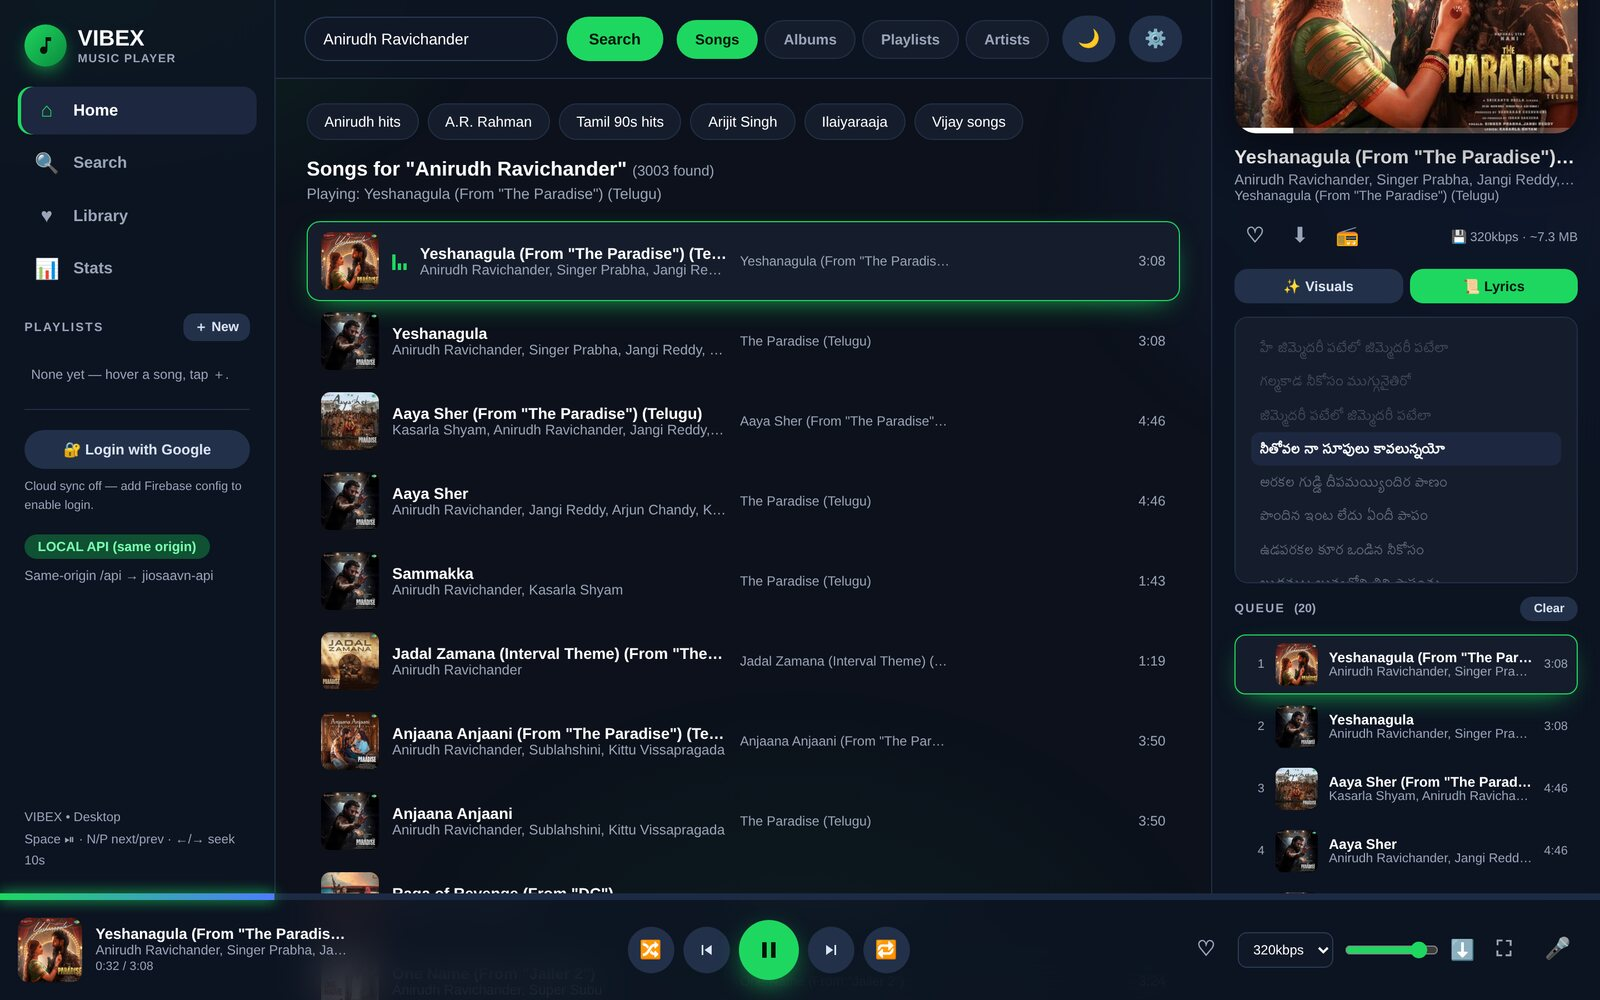
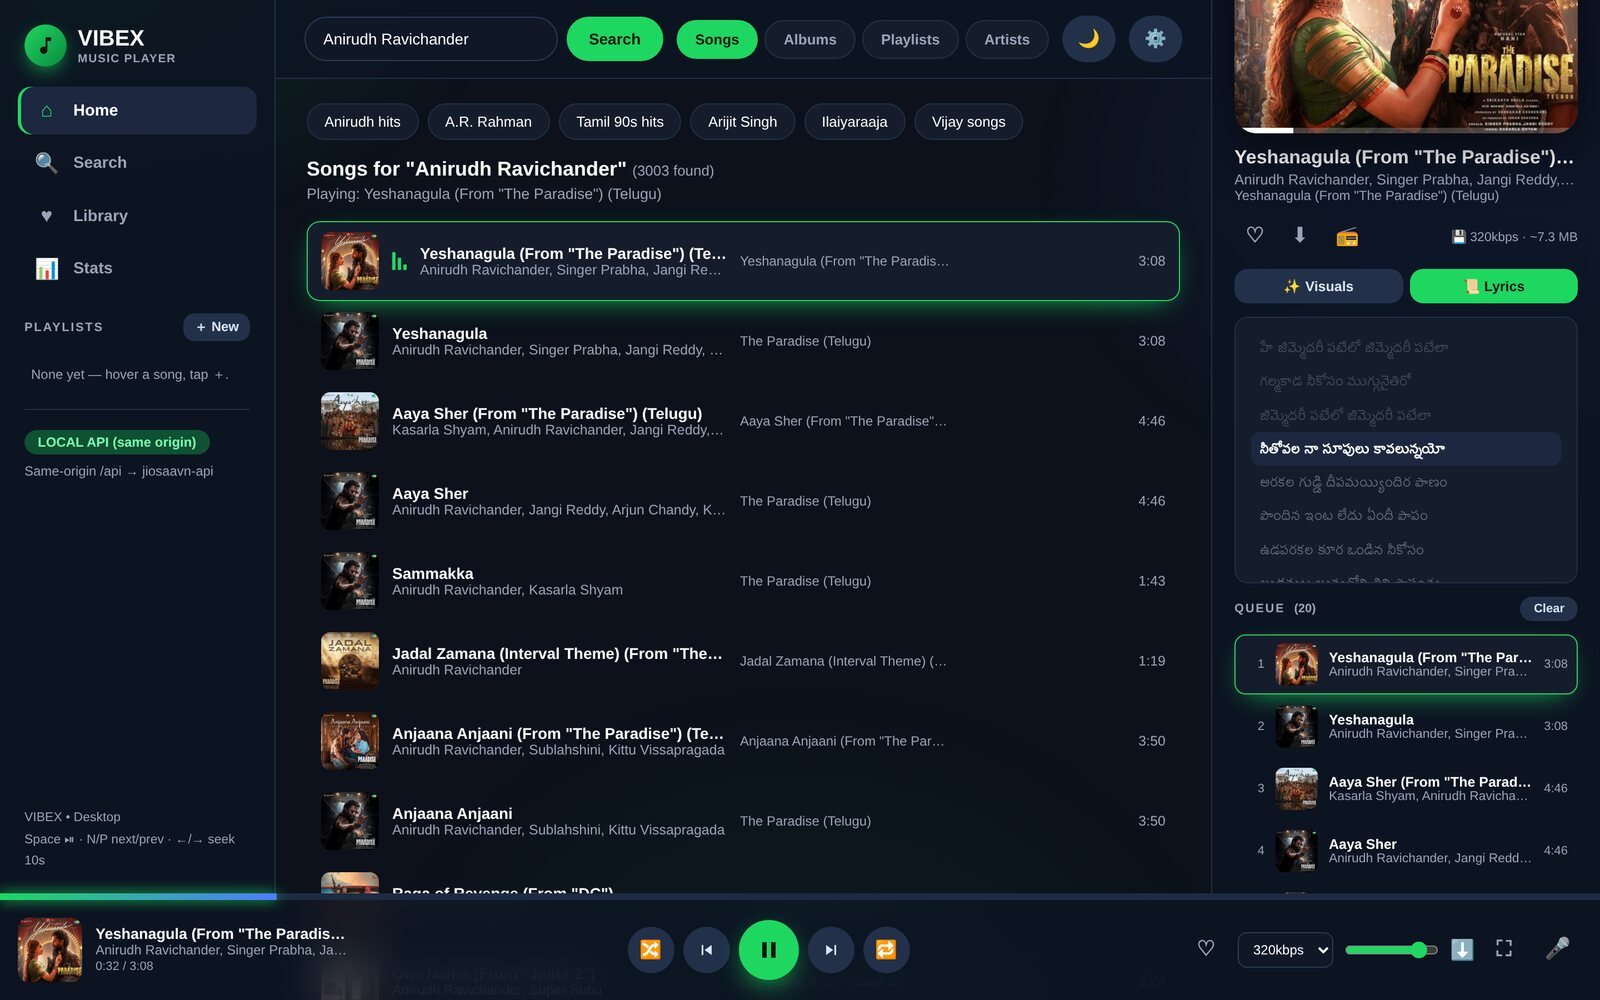
feat: remove Google login and Firebase cloud history
Strips the optional sign-in feature entirely rather than leaving it
half-wired:

- drop the three firebase-*-compat script tags, so index.html now loads
  no third-party JavaScript and makes no request to www.gstatic.com
- remove the sidebar auth UI (login button, profile box, auth note) and
  its CSS
- remove FIREBASE_CONFIG, initFirebase, paintAuth, logPlayToCloud,
  fmtAgo and renderCloudHistory, plus their two call sites in
  statsOnPlay and renderStats
- delete README-FIREBASE.md and every reference to login, Firebase and
  cloud sync across README.md and NOTICE.md

Listening stats and the liked-songs library are unaffected; both were
always local-first via localStorage. Screenshots re-captured so the
docs match the shipped sidebar.

Changed region(s): [[0.0, 0.403, 0.1562, 0.589]]

diff --git a/music-app/index.html b/music-app/index.html
@@ -4,9 +4,6 @@
 <meta charset="UTF-8" />
 <meta name="viewport" content="width=device-width, initial-scale=1.0" />
 <title>VIBEX — Music Player</title>
-<script src="https://www.gstatic.com/firebasejs/10.12.0/firebase-app-compat.js"></script>
-<script src="https://www.gstatic.com/firebasejs/10.12.0/firebase-auth-compat.js"></script>
-<script src="https://www.gstatic.com/firebasejs/10.12.0/firebase-firestore-compat.js"></script>
 <style>
   * { box-sizing: border-box; margin: 0; padding: 0; }
   :root {
@@ -496,15 +493,6 @@
   #lyrOvContent .lyr-plain { font-size: 15px; }
 
   /* ---------- google login ---------- */
-  #authBox { padding: 0 6px; display: flex; flex-direction: column; gap: 8px; }
-  #loginBtn { width: 100%; font-size: 13px; padding: 10px; }
-  #profileBox { display: flex; align-items: center; gap: 10px; background: var(--card); border: 1px solid var(--line); border-radius: 12px; padding: 8px 10px; }
-  #profPic { width: 36px; height: 36px; border-radius: 50%; object-fit: cover; background: var(--imgbg); flex-shrink: 0; }
-  #profMeta { flex: 1; min-width: 0; display: flex; flex-direction: column; }
-  #profName { font-size: 13px; white-space: nowrap; overflow: hidden; text-overflow: ellipsis; }
-  #profMail { font-size: 11px; color: var(--muted); white-space: nowrap; overflow: hidden; text-overflow: ellipsis; }
-  #logoutBtn { padding: 6px 10px; font-size: 13px; flex-shrink: 0; }
-  #authNote { font-size: 11px; color: var(--muted); line-height: 1.5; }
 </style>
 </head>
 <body>
@@ -527,15 +515,6 @@
     <div class="pl-sec-title side-extra"><span>PLAYLISTS</span><button id="plNewBtn" class="ghost">＋ New</button></div>
     <div id="plNav" class="side-extra"></div>
     <div class="side-div side-extra"></div>
-    <div id="authBox" class="side-extra">
-      <button id="loginBtn" class="ghost">🔐 Login with Google</button>
-      <div id="profileBox" style="display:none">
-        <img id="profPic" alt="" />
-        <div id="profMeta"><b id="profName"></b><span id="profMail"></span></div>
-        <button id="logoutBtn" class="ghost" title="Logout">⏻</button>
-      </div>
-      <div id="authNote"></div>
-    </div>
     <div class="api-box">
       <span id="modeBadge" class="mode-badge">connecting…</span>
       <span id="saverBadge">💾 DATA SAVER</span>
@@ -2253,7 +2232,6 @@ function statsOnPlay() {
   flushStats();
   const s = queue[currentIndex];
   if (!s) return;
-  logPlayToCloud(s);
   statCur = {
     id: s.id,
     name: decodeHtml(s.name),
@@ -2327,7 +2305,6 @@ function renderStats() {
     resultsEl.innerHTML += `<div class="empty-lib"><b>📊</b><p>No stats yet</p><span>Play some music and your listening stats will appear here.</span></div>`;
     setStatus("Play something to start building stats.");
   } else setStatus("Your listening stats — click a song to play it.");
-  renderCloudHistory();
   renderPlNav();
 }
 async function playStatSong(id, name) {
@@ -2531,82 +2508,6 @@ document.addEventListener("keydown", e => {
   if (e.key === "Escape" && lyrOvOpen && !$("plModal").classList.contains("open")) closeLyricsOv();
 });
 setInterval(() => { syncFull(); syncLyricsOv(); }, 250);
-
-// ---------- google login + cloud history (firebase) ----------
-const FIREBASE_CONFIG = null; // <-- paste your Firebase web config here (see README-FIREBASE.md)
-let cloudUser = null, cloudDb = null;
-function initFirebase() {
-  if (!FIREBASE_CONFIG) { $("authNote").textContent = "Cloud sync off — add Firebase config to enable login."; return; }
-  if (typeof firebase === "undefined") { $("authNote").textContent = "Couldn't load Google libraries (offline?)."; return; }
-  try {
-    firebase.initializeApp(FIREBASE_CONFIG);
-    cloudDb = firebase.firestore();
-    firebase.auth().onAuthStateChanged(u => { cloudUser = u; paintAuth(); });
-  } catch (e) { $("authNote").textContent = "Firebase init failed: " + e.message; }
-}
-function paintAuth() {
-  const logged = !!cloudUser;
-  $("loginBtn").style.display = logged ? "none" : "block";
-  $("profileBox").style.display = logged ? "flex" : "none";
-  if (logged) {
-    $("profPic").src = cloudUser.photoURL || "";
-    $("profPic").style.display = cloudUser.photoURL ? "block" : "none";
-    $("profName").textContent = cloudUser.displayName || "User";
-    $("profMail").textContent = cloudUser.email || "";
-  }
-  if (view === "stats") renderStats();
-}
-function logPlayToCloud(s) {
-  if (!cloudUser || !cloudDb || !s) return;
-  cloudDb.collection("history").doc(cloudUser.uid).collection("plays").add({
-    id: s.id,
-    name: decodeHtml(s.name),
-    artist: artistsOf(s),
-    img: (s.image && s.image.length) ? s.image[s.image.length - 1].url : "",
-    at: firebase.firestore.FieldValue.serverTimestamp()
-  }).catch(() => {});
-}
-function fmtAgo(ts) {
-  if (!ts || !ts.toDate) return "";
-  const sec = Math.max(0, Math.round((Date.now() - ts.toDate().getTime()) / 1000));
-  if (sec < 60) return "just now";
-  if (sec < 3600) return Math.floor(sec / 60) + "m ago";
-  if (sec < 86400) return Math.floor(sec / 3600) + "h ago";
-  return Math.floor(sec / 86400) + "d ago";
-}
-async function renderCloudHistory() {
-  if (!cloudUser || !cloudDb) return;
-  const sec = document.createElement("div");
-  sec.innerHTML = `<div class="sec-title">☁ Recent plays (all devices)</div><div class="spinner" style="margin:12px auto"></div>`;
-  resultsEl.appendChild(sec);
-  try {
-    const snap = await cloudDb.collection("history").doc(cloudUser.uid).collection("plays").orderBy("at", "desc").limit(20).get();
-    sec.querySelector(".spinner").remove();
-    if (snap.empty) {
-      sec.innerHTML += `<div style="font-size:13px;color:var(--muted)">No cloud plays yet — press play and they appear here.</div>`;
-      return;
-    }
-    snap.forEach(doc => {
-      const p = doc.data() || {};
-      const r = document.createElement("div");
-      r.className = "stat-row";
-      r.innerHTML = `<img src="${p.img || ""}" alt="" onerror="this.style.opacity=.25"/>\n        <div class="s-info"><div class="s-title">${esc(p.name || "Unknown")}</div><div class="s-artist">${esc(p.artist || "")}</div></div>\n        <div class="n">${fmtAgo(p.at)}</div>`;
-      r.onclick = () => playStatSong(p.id, p.name);
-      sec.appendChild(r);
-    });
-  } catch (e) {
-    const sp = sec.querySelector(".spinner");
-    if (sp) sp.remove();
-    sec.innerHTML += `<div style="font-size:13px;color:var(--muted)">Couldn't load cloud history.</div>`;
-  }
-}
-$("loginBtn").onclick = () => {
-  if (!cloudDb) { setStatus("Login isn't configured yet — see README-FIREBASE.md.", true); return; }
-  const provider = new firebase.auth.GoogleAuthProvider();
-  firebase.auth().signInWithPopup(provider).catch(e => setStatus("Login failed: " + e.message, true));
-};
-$("logoutBtn").onclick = () => { if (cloudDb) firebase.auth().signOut(); };
-initFirebase();
 </script>
 </body>
 </html>

diff --git a/README.md b/README.md
@@ -7,7 +7,7 @@
 ![License](https://img.shields.io/badge/license-MIT-green)
 ![Stack](https://img.shields.io/badge/stack-Node%20·%20Bun%20·%20Hono-blue)
 
-[✨ Features](#-features) · [🚀 Quick Start](#-quick-start) · [📸 Screenshots](#-screenshots) · [🔐 Login Setup](README-FIREBASE.md) · [⚖ Legal](#legal)
+[✨ Features](#-features) · [🚀 Quick Start](#-quick-start) · [📸 Screenshots](#-screenshots) · [⚖ Legal](#legal)
 
 </div>
 
@@ -44,7 +44,6 @@
 | 📻 **Endless radio** | Auto-extending stations seeded from any song |
 | 🎵 **Custom playlists** | Create, rename, reorder — saved on your device |
 | 📊 **Listening stats** | Plays, minutes, top songs & artists |
-| 🔐 **Google login** *(optional)* | Cloud-synced listening history across all your devices |
 | 🌗 **Dark / light** | Premium glass UI with a Data Saver mode for slow networks |
 
 ## 🚀 Quick Start
@@ -109,16 +108,6 @@ framework-free and renders straight from `music-app/index.html` — no build ste
   </tr>
 </table>
 
-## 🔐 Google Login + Cloud History *(optional)*
-
-The app works fully without it. To enable cross-device history:
-
-1. Create a free project at [console.firebase.google.com](https://console.firebase.google.com)
-2. Enable **Google sign-in** + **Firestore**
-3. Paste the web config into the marked `FIREBASE_CONFIG` line in `music-app/index.html`
-
-Step-by-step with screenshots-level detail: [README-FIREBASE.md](README-FIREBASE.md).
-
 ## 📁 Project Structure
 
 ```
@@ -138,7 +127,6 @@ VIBEX/
 - **Gateway:** Node.js (static + `/api` proxy + `/dl` download server)
 - **Music API:** Bun + Hono + JavaScript (JioSaavn wrapper)
 - **Lyrics:** [LRCLIB](https://lrclib.net) (synced, keyless)
-- **Auth + cloud history:** Firebase (optional)
 - **Runtime:** local Node.js gateway + Bun API (no deployment configuration included)
 
 <a id="legal"></a>
@@ -177,7 +165,6 @@ to your browser. Nothing is copied onto a VIBEX server at any point.
 - All **songs, compositions, master recordings, album artwork, artist
   imagery, and lyrics** are the exclusive property of their respective record
   labels, artists, publishers, photographers, and other rights holders.
-- **Google™** and **Firebase™** are trademarks of Google LLC.
 - No affiliation, endorsement, or sponsorship by any of the above is claimed
   or implied.
 
@@ -190,7 +177,6 @@ VIBEX stands on other people's work, and they get full credit:
 | `jiosaavn-api/` (vendored fork) | MIT | **Sumit Kolhe** — [upstream](https://github.com/sumitkolhe/jiosaavn-api) |
 | Hono, Zod, Scalar | MIT | respective authors |
 | `node-forge` | BSD-3-Clause | Digital Bazaar, Inc. |
-| Firebase JS SDK | Apache-2.0 | Google LLC |
 | Lyrics | — | **LRCLIB**, credited on-screen |
 
 Full details, including what was modified in the vendored fork, are in

diff --git a/NOTICE.md b/NOTICE.md
@@ -47,12 +47,8 @@ Upstream project: <https://github.com/sumitkolhe/jiosaavn-api>
 
 ## 3. Client-side libraries loaded at runtime
 
-| Component | License | Owner | Where |
-|---|---|---|---|
-| Firebase JS SDK v10.12.0 (`firebase-app-compat`, `firebase-auth-compat`, `firebase-firestore-compat`) | Apache-2.0 | Google LLC | Loaded from `www.gstatic.com` in `music-app/index.html`. **Optional** — the app runs with `FIREBASE_CONFIG = null`. |
-
-Firebase and Google are trademarks of Google LLC. Use of Firebase is subject
-to the [Firebase Terms of Service](https://firebase.google.com/terms).
+None. `music-app/index.html` ships no third-party JavaScript — the UI, player,
+and visualizer are hand-written vanilla JS with no CDN dependencies.
 
 ---
 
